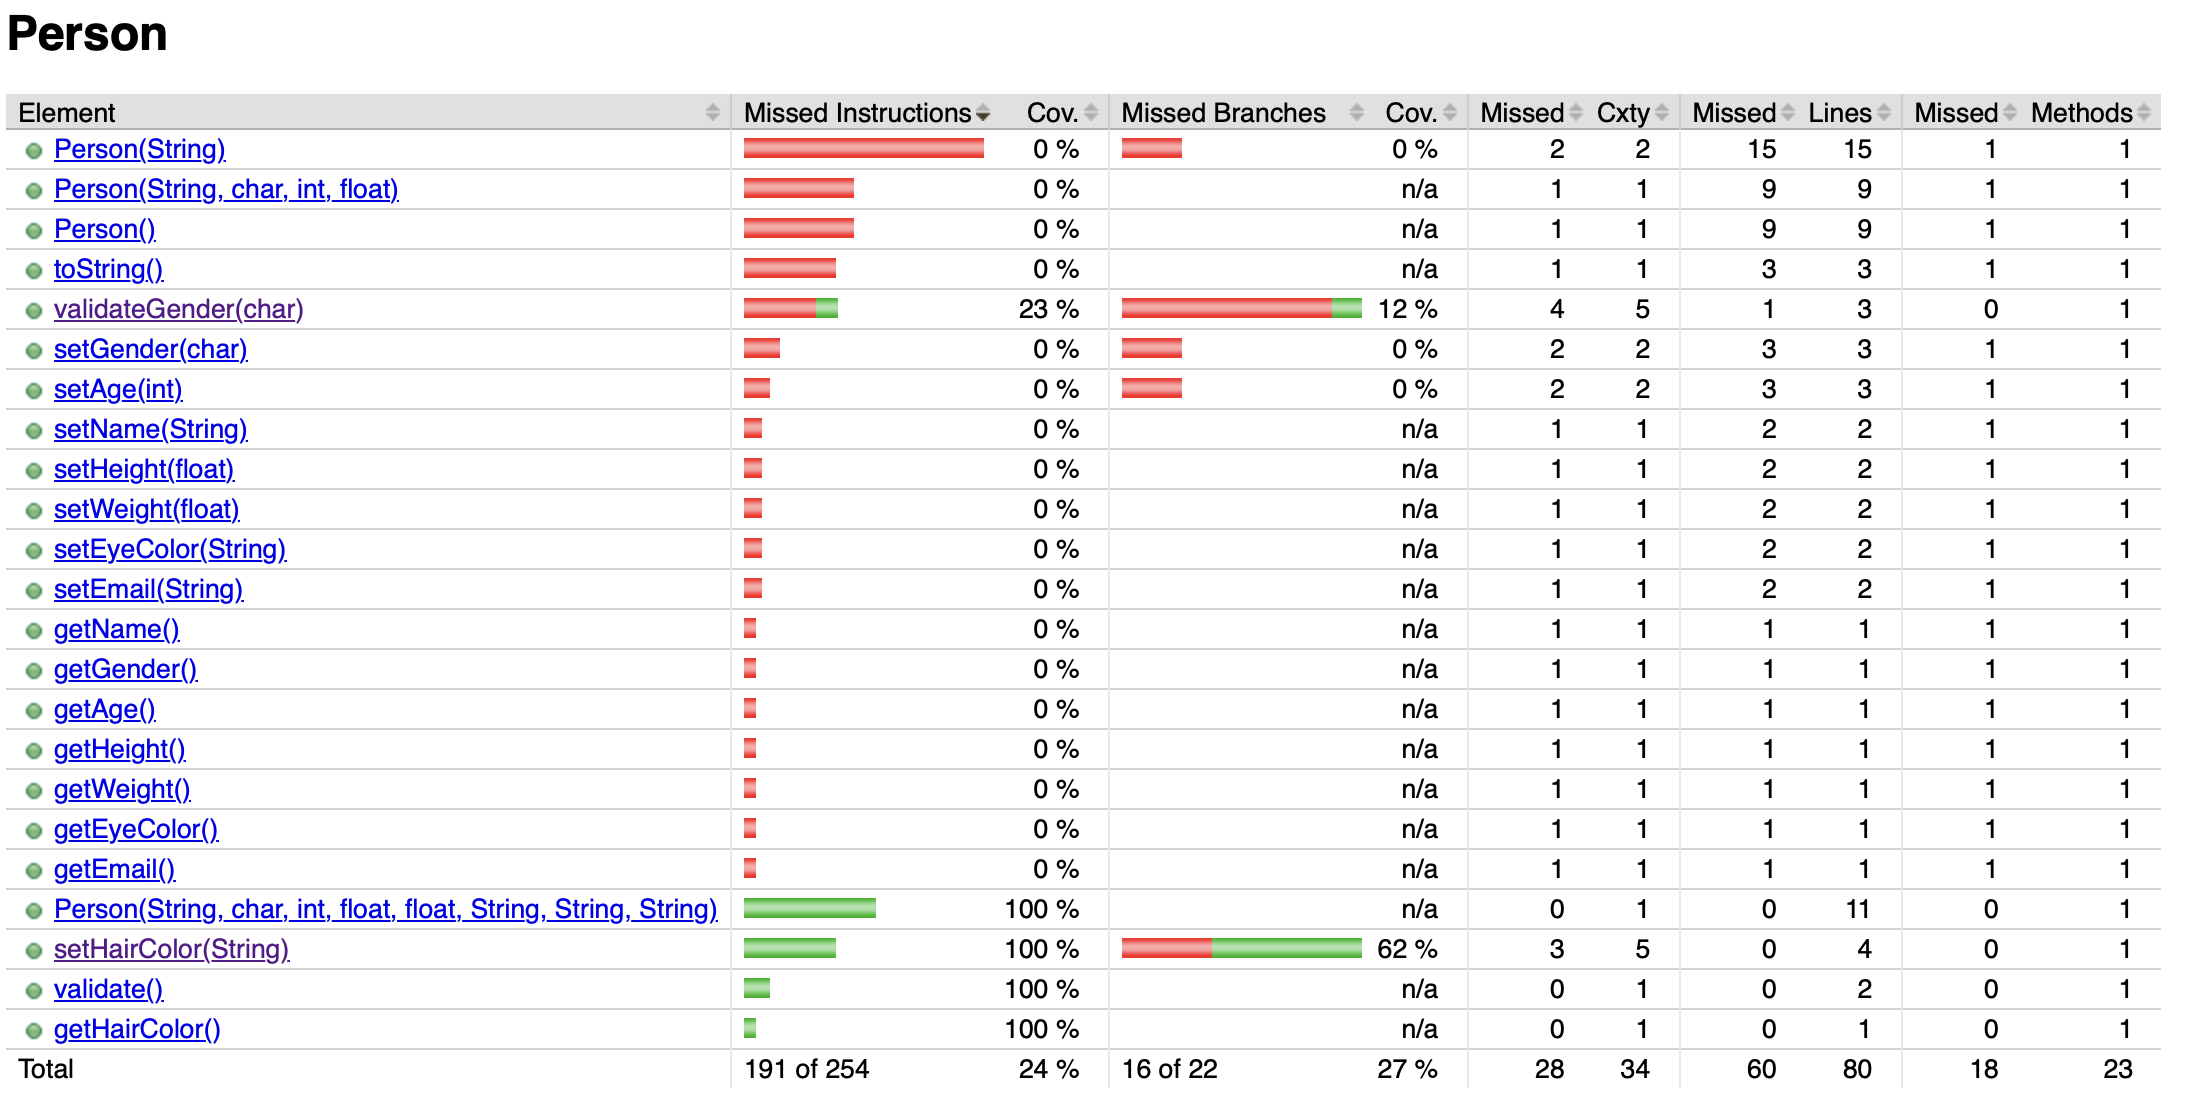
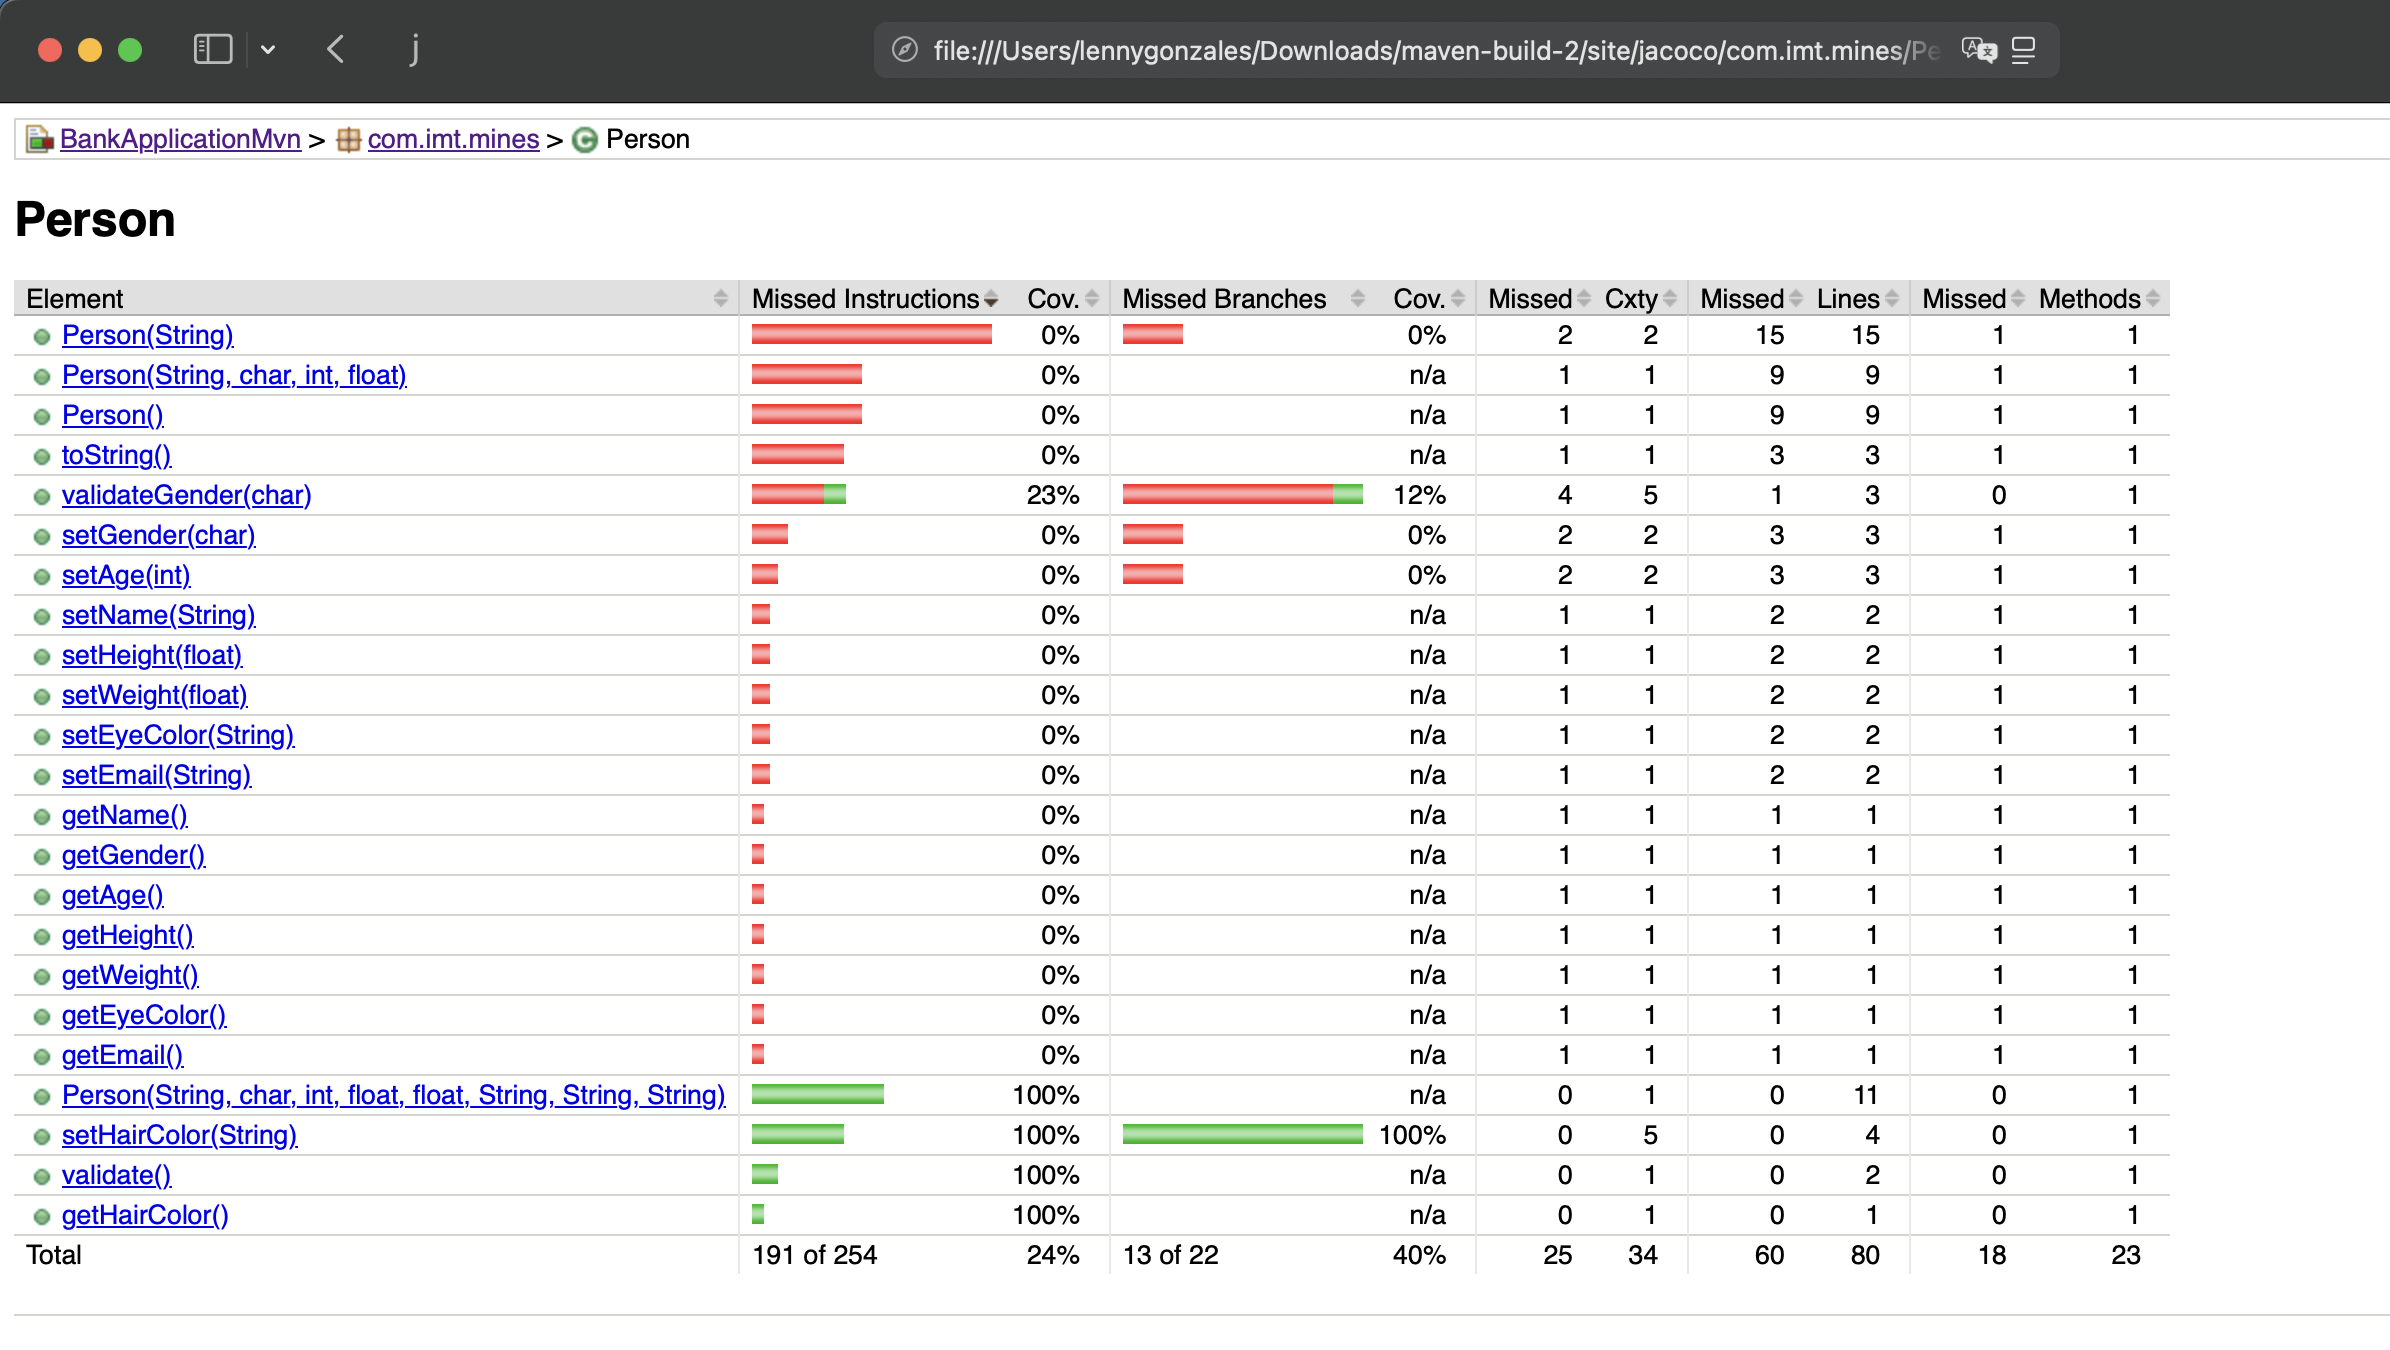
fix: modify jacoco-coverage-sethaircolor-2.png image

Changed region(s): [[0.0, 0.0, 1.0, 0.9688], [0.9591, 0.9375, 0.99, 0.9688]]

diff --git a/ex9.md b/ex9.md
@@ -133,5 +133,5 @@ J'ai ajouté 2 tests :
 [INFO] ------------------------------------------------------------------------
 ```
 
-Maintenant, nous pouvons voir que la fonction a un coverage de 62% :
+Maintenant, nous pouvons voir que la fonction a un coverage de 100% :
 ![Person.setHairColor](./docs/images/jacoco-coverage-sethaircolor-2.png)
